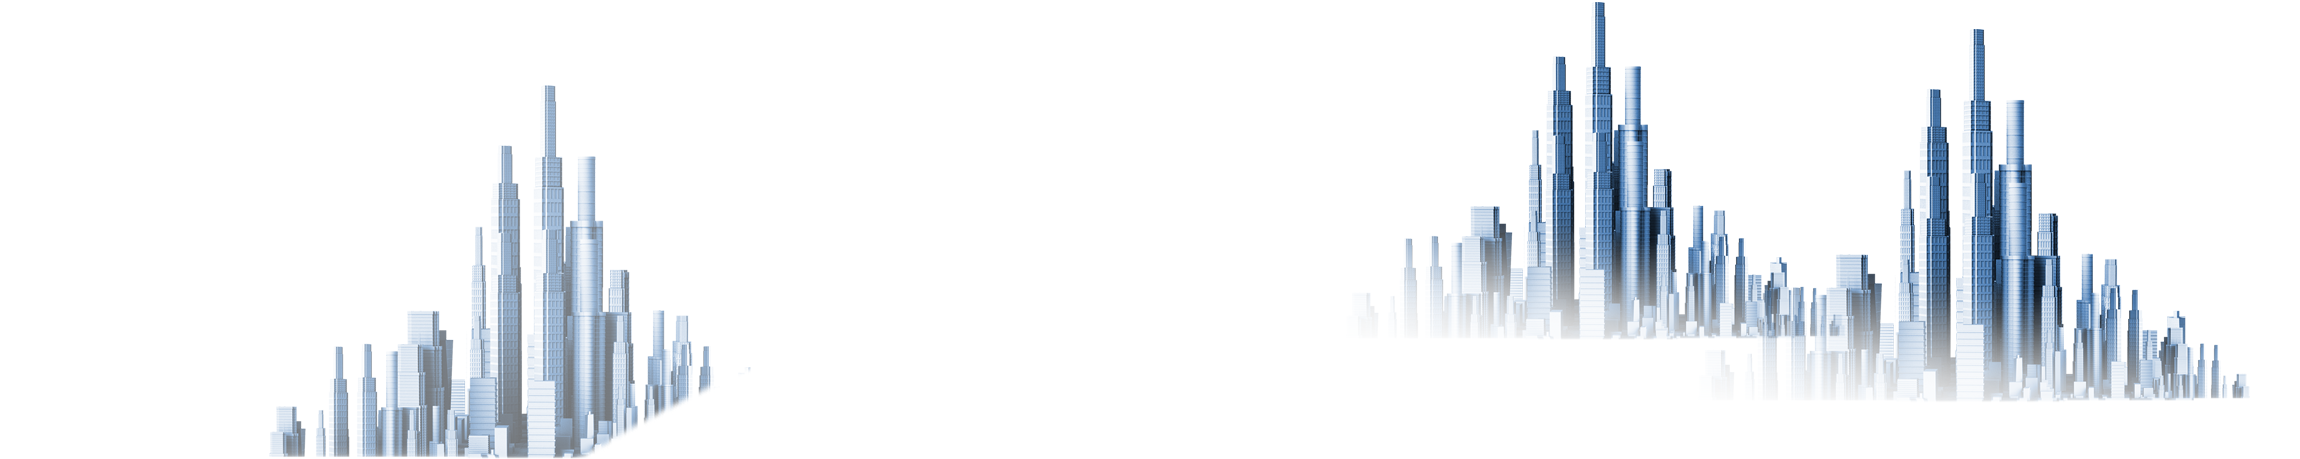
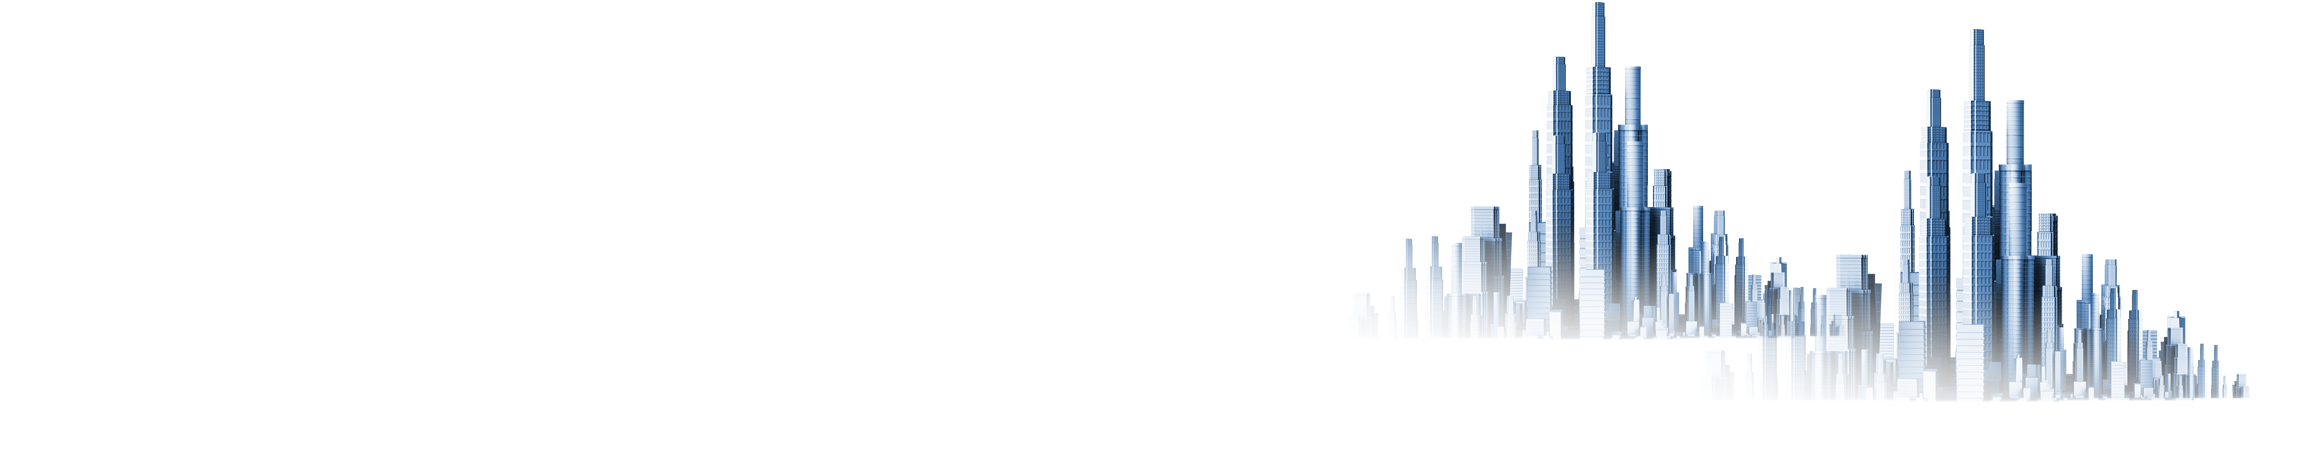
fix

Changed region(s): [[0.0926, 0.183, 0.3087, 1.0]]

diff --git a/views/project/ptarchitects/static/style/index.css b/views/project/ptarchitects/static/style/index.css
@@ -67,14 +67,14 @@ html, body {
   bottom: .2rem;
   left: .3rem;
   height: .9rem;
-  z-index: 9;
+  z-index: 15;
   opacity: 0;
   transition-delay: 2s;
 }
 
 .img004 {
   left: 50%;
-  bottom: .4rem;
+  bottom: 0rem;
   height: 1.6rem;
   z-index: 11;
   transform: translate(-50%, 0);
